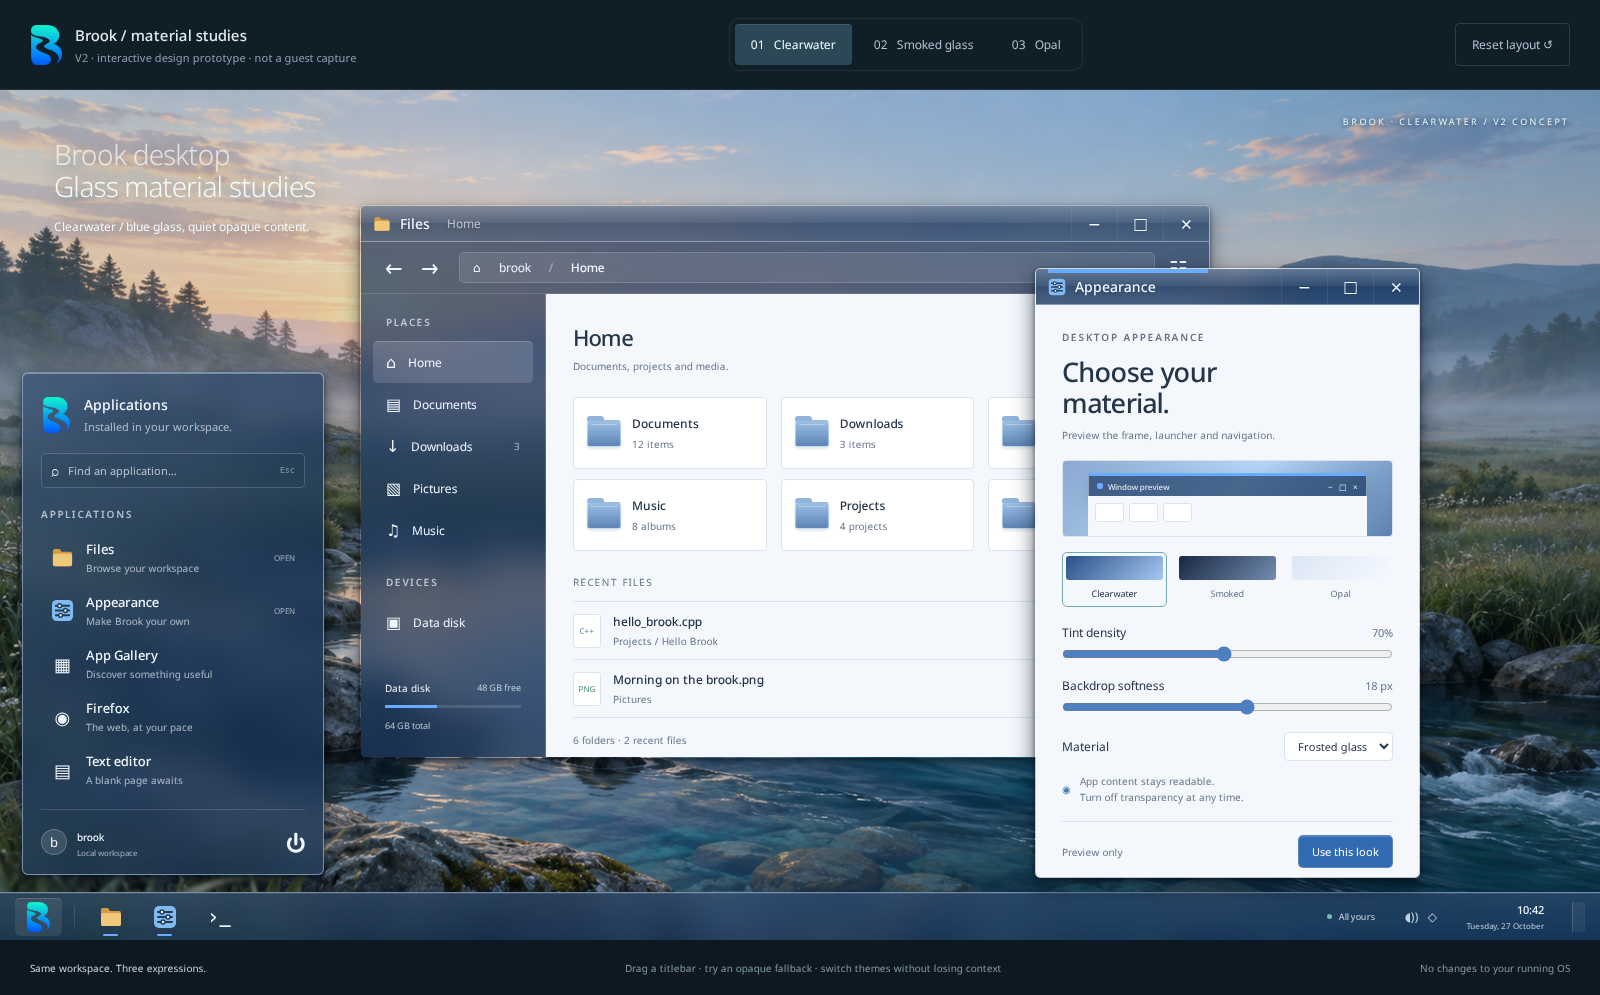
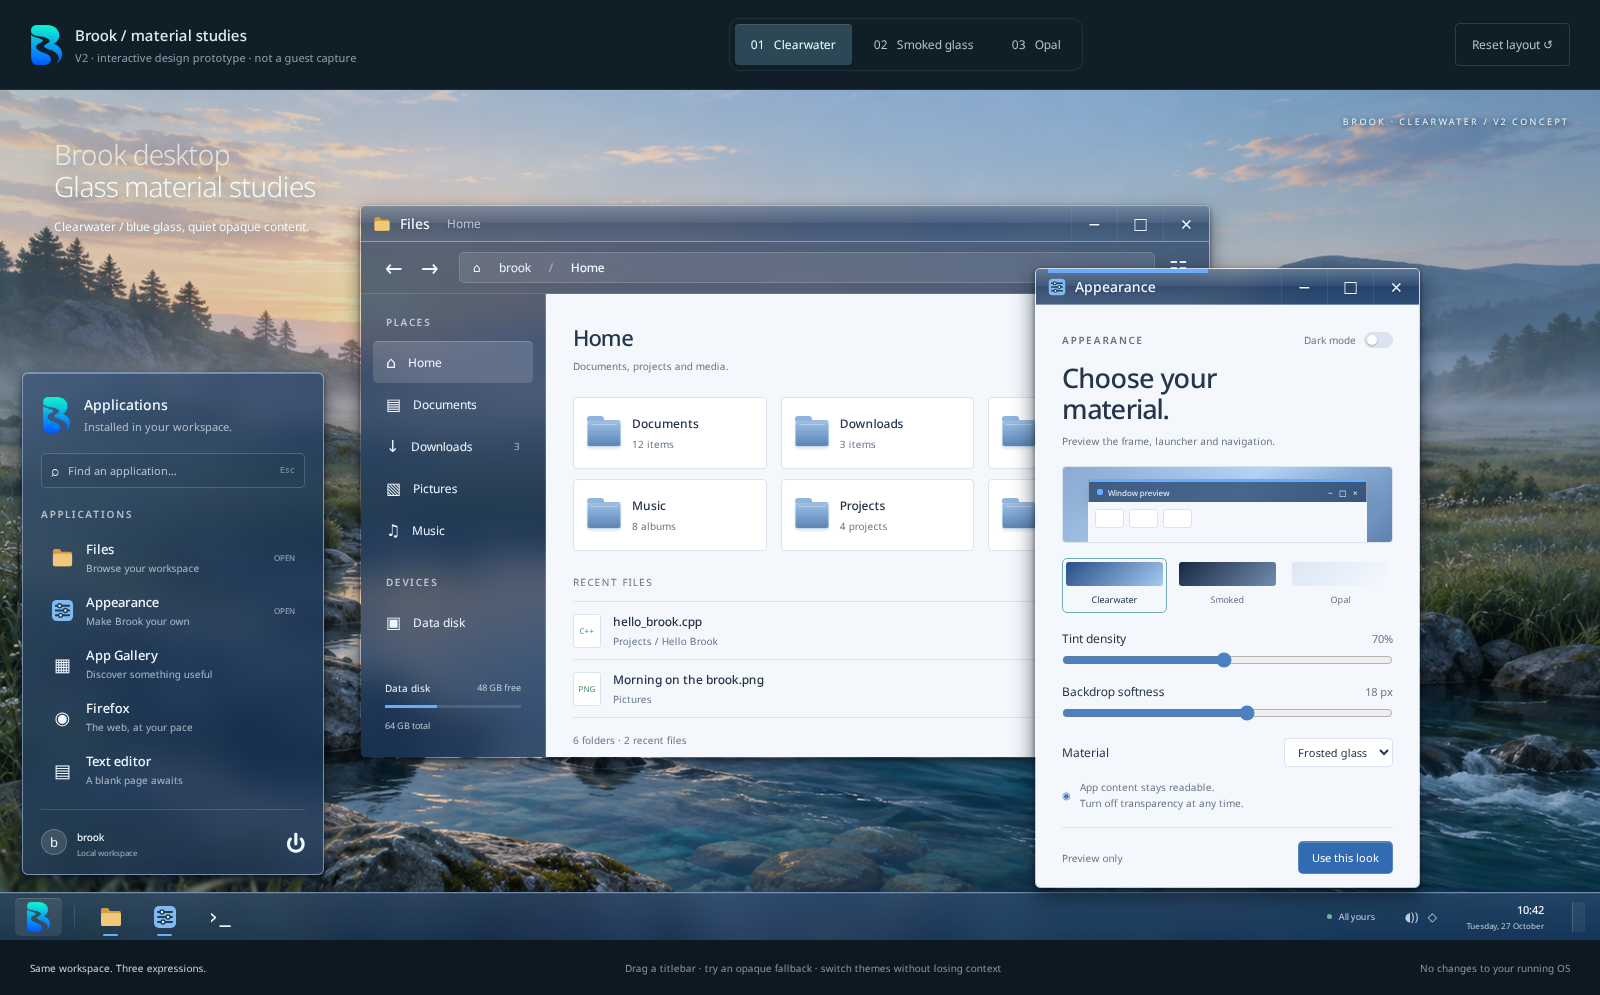
Add independent dark mode to Brook glass studies

diff --git a/docs/design/glass/study.js b/docs/design/glass/study.js
@@ -8,7 +8,9 @@ function setTheme(theme){if(!themes[theme])return;document.body.dataset.theme=th
 $$('[data-theme-choice]').forEach(b=>b.onclick=()=>setTheme(b.dataset.themeChoice));
 function material(){document.body.dataset.material=$('#material').value;document.body.style.setProperty('--tint',Number($('#tint').value)/100);document.body.style.setProperty('--blur',$('#blur').value+'px');$('#tint-value').textContent=$('#tint').value+'%';$('#blur-value').textContent=$('#blur').value+' px';$('#apply-status').textContent='Preview only';const solid=$('#material').value==='solid';$('#blur').disabled=solid||$('#material').value==='clear';$('#tint').disabled=solid}
 ['tint','blur','material'].forEach(id=>$('#'+id).addEventListener('input',material));
-$('#apply').onclick=()=>{try{localStorage.setItem('brook-glass-study',JSON.stringify({theme:document.body.dataset.theme,tint:$('#tint').value,blur:$('#blur').value,material:$('#material').value}));$('#apply-status').textContent='Saved in this browser';toast('Look saved for this prototype. Brook OS is unchanged.')}catch{toast('Browser storage is unavailable; preview remains active.')}};
+function colorMode(dark){document.body.dataset.colorMode=dark?'dark':'light';$('#dark-mode').checked=dark;$('#apply-status').textContent='Preview only'}
+$('#dark-mode').onchange=()=>colorMode($('#dark-mode').checked);
+$('#apply').onclick=()=>{try{localStorage.setItem('brook-glass-study',JSON.stringify({theme:document.body.dataset.theme,colorMode:document.body.dataset.colorMode,tint:$('#tint').value,blur:$('#blur').value,material:$('#material').value}));$('#apply-status').textContent='Saved in this browser';toast('Look saved for this prototype. Brook OS is unchanged.')}catch{toast('Browser storage is unavailable; preview remains active.')}};
 function focusWindow(w){$$('.window').forEach(x=>x.classList.remove('focused'));w.classList.add('focused');w.style.zIndex=++topZ}
 function openWindow(id){const w=$('#'+id);if(!w)return;w.classList.remove('closed','minimized');focusWindow(w);$(`[data-open="${id}"]`)?.classList.add('running')}
 $$('[data-open]').forEach(b=>b.onclick=()=>openWindow(b.dataset.open));
@@ -25,5 +27,5 @@ $('#app-search').addEventListener('input',appList);appList();
 const folders=[['Documents','12 items'],['Downloads','3 items'],['Pictures','24 items'],['Music','8 albums'],['Projects','4 projects'],['Videos','2 items']];let history=['Home'],historyIndex=0;
 function folder(name,record=true){if(record){history=history.slice(0,historyIndex+1);history.push(name);historyIndex++}$('#folder-name').textContent=name;$('#content-title').textContent=name==='Home'?'Home':name;$$('[data-folder]').forEach(b=>b.classList.toggle('selected',b.dataset.folder===name));const grid=$('#file-grid');grid.replaceChildren();for(const [title,count] of name==='Home'?folders:[['Brook notes','Example folder'],['Experiments','Example folder'],['Archive','Example folder']]){const b=document.createElement('button');b.className='file-card';const icon=document.createElement('span');icon.className='folder-icon';const d=document.createElement('div'),strong=document.createElement('strong'),small=document.createElement('small');strong.textContent=title;small.textContent=count;d.append(strong,small);b.append(icon,d);b.onclick=()=>folder(title);grid.append(b)}$('#file-status').textContent=name==='Home'?'6 folders · 2 recent files':'Illustrative files · design preview'}
 $$('[data-folder]').forEach(b=>b.onclick=()=>folder(b.dataset.folder));$('.files-toolbar button[aria-label=Back]').onclick=()=>{if(historyIndex>0)folder(history[--historyIndex],false)};$('.files-toolbar button[aria-label=Forward]').onclick=()=>{if(historyIndex<history.length-1)folder(history[++historyIndex],false)};$('.view-toggle').onclick=()=>{const g=$('#file-grid');g.style.gridTemplateColumns=g.style.gridTemplateColumns?'':'1fr';toast('File view changed in the prototype.')};$('.subtle').onclick=()=>toast('Files shown here are illustrative; no filesystem access.');folder('Home',false);
-try{const saved=JSON.parse(localStorage.getItem('brook-glass-study'));if(saved&&themes[saved.theme]){setTheme(saved.theme);for(const id of ['tint','blur','material'])if(saved[id]!==undefined)$('#'+id).value=saved[id];material();restored=true}}catch{}
+try{const saved=JSON.parse(localStorage.getItem('brook-glass-study'));if(saved&&themes[saved.theme]){setTheme(saved.theme);colorMode(saved.colorMode==='dark'||(!saved.colorMode&&saved.theme==='smoke'));for(const id of ['tint','blur','material'])if(saved[id]!==undefined)$('#'+id).value=saved[id];material();restored=true}}catch{}
 setTheme(document.body.dataset.theme);material();if(restored)$('#apply-status').textContent='Restored from this browser';focusWindow($('#settings'));

diff --git a/docs/design/glass/index.html b/docs/design/glass/index.html
@@ -2,7 +2,7 @@
 <html lang="en"><meta charset="utf-8"><meta name="viewport" content="width=device-width,initial-scale=1">
 <title>Brook · Glass material studies</title>
 <link rel="stylesheet" href="study.css">
-<body data-theme="water" data-material="frosted">
+<body data-theme="water" data-material="frosted" data-color-mode="light">
 <header class="study-controls"><div class="study-identity"><img src="../../../data/branding/brook-mark.png" alt=""><div><strong>Brook / material studies</strong><small>V2 · interactive design prototype · not a guest capture</small></div></div><nav aria-label="Theme concepts"><button data-theme-choice="water" class="chosen">01 &nbsp; Clearwater</button><button data-theme-choice="smoke">02 &nbsp; Smoked glass</button><button data-theme-choice="opal">03 &nbsp; Opal</button></nav><button id="reset">Reset layout ↺</button></header>
 <main id="desktop" aria-label="Brook desktop concept">
 <div class="desktop-label"><span>Brook desktop</span><br>Glass material studies<small id="direction-caption">Clearwater / blue glass, quiet opaque content.</small></div>
@@ -14,7 +14,7 @@
 </section>
 <section id="settings" class="window settings" aria-label="Appearance window">
  <header class="titlebar"><img src="../../../data/icons/settings.svg" alt=""><strong>Appearance</strong><div class="caption"><button data-action="minimize" aria-label="Minimize Appearance">−</button><button data-action="maximize" aria-label="Maximize Appearance">□</button><button data-action="close" class="close" aria-label="Close Appearance">×</button></div></header>
- <div class="settings-body"><div class="eyebrow">DESKTOP APPEARANCE</div><h2>Choose your<br>material.</h2><p>Preview the frame, launcher and navigation.</p>
+ <div class="settings-body"><div class="appearance-heading"><div class="eyebrow">APPEARANCE</div><label class="dark-mode-label" for="dark-mode">Dark mode <input id="dark-mode" type="checkbox" role="switch"></label></div><h2>Choose your<br>material.</h2><p>Preview the frame, launcher and navigation.</p>
  <div class="material-preview"><div class="preview-window"><i></i><span>Window preview</span><b>− &nbsp; □ &nbsp; ×</b></div><div class="preview-content"><i></i><i></i><i></i></div></div>
  <div class="theme-swatches" aria-label="Choose appearance"><button data-theme-choice="water" class="swatch water chosen" aria-label="Clearwater"><span></span>Clearwater</button><button data-theme-choice="smoke" class="swatch smoke" aria-label="Smoked glass"><span></span>Smoked</button><button data-theme-choice="opal" class="swatch opal" aria-label="Opal"><span></span>Opal</button></div>
  <label class="range-label" for="tint">Tint density <output id="tint-value">70%</output></label><input type="range" id="tint" min="45" max="96" value="70">

diff --git a/docs/design/glass/study.css b/docs/design/glass/study.css
@@ -23,7 +23,7 @@ nav button.chosen{color:#eefeff;background:#2c4856;box-shadow:inset 0 1px #fffff
 .window{position:absolute;border-radius:5px;border:1px solid transparent;box-shadow:0 8px 18px #07152688,0 2px 4px #00000066;overflow:hidden;min-width:500px;min-height:380px}
 .window.focused{border-color:var(--window-edge);box-shadow:0 10px 22px #071526a6,0 2px 5px #00000080,inset 0 1px #ffffff70}
 .files{left:360px;top:115px;width:850px;height:553px}
-.settings{left:1035px;top:178px;width:385px;min-width:350px;height:610px;min-height:500px}
+.settings{left:1035px;top:178px;width:385px;min-width:350px;height:620px;min-height:500px}
 .titlebar{height:36px;display:flex;align-items:center;padding-left:12px;gap:9px;position:relative;border-bottom:1px solid #ffffff2b;user-select:none;touch-action:none;background-image:linear-gradient(180deg,#ffffff40,#ffffff0a 48%,#0000000a 50%,#ffffff08);text-shadow:0 1px 3px #001d3155}
 .titlebar:after{content:'';display:none;position:absolute;top:0;left:12px;width:160px;height:4px;background:var(--accent)}
 .window.focused .titlebar:after{display:block}
@@ -214,3 +214,13 @@ nav button{padding:9px 12px}
 .eyebrow{font-size:10px}
 .section-label{font-size:10px}
 .content-status{font-size:10px}
+
+/* Color mode is independent of glass palette and focus accent. */
+.appearance-heading{display:flex;align-items:center;justify-content:space-between;min-height:20px;gap:12px}
+.dark-mode-label{display:flex;align-items:center;gap:8px;font-size:10px;white-space:nowrap;color:var(--muted)}
+#dark-mode{appearance:none;width:29px;height:16px;border:1px solid var(--line);border-radius:9px;background:var(--line);margin:0;cursor:pointer;position:relative}
+#dark-mode:before{content:'';position:absolute;width:10px;height:10px;left:2px;top:2px;background:var(--raised);border-radius:50%;box-shadow:0 1px 2px #0004}
+#dark-mode:checked{background:#4c80c0;border-color:#4c80c0}
+#dark-mode:checked:before{left:15px;background:#fff}
+body[data-color-mode=light][data-theme=smoke]{--content:#f1f4f9;--ink:#28384e;--muted:#687b94;--line:#d5deeb;--raised:#fff;--selection:#dbe7f7}
+body[data-color-mode=dark]{color-scheme:dark;--content:#172335;--ink:#e5edf8;--muted:#a4b2c7;--line:#32445d;--raised:#213149;--selection:#2c496d}

diff --git a/docs/design/glass/serve.py b/docs/design/glass/serve.py
@@ -10,7 +10,7 @@ STUDY = Path(__file__).resolve().parent
 ROOT = STUDY.parents[2]
 FILES = {f'/{name}': STUDY / name for name in
          ('index.html', 'study.css', 'study.js', 'clearwater.png', 'smoked.png', 'opal.png',
-          'clearwater-v2.png', 'smoked-v2.png', 'opal-v2.png')}
+          'clearwater-v2.png', 'smoked-v2.png', 'opal-v2.png', 'clearwater-dark.png')}
 FILES['/'] = STUDY / 'index.html'
 for asset in ('data/branding/brook-mark.png', 'data/wallpaper/brook-dawn.png',
               'data/icons/files.svg', 'data/icons/settings.svg'):

diff --git a/docs/design/glass/README.md b/docs/design/glass/README.md
@@ -9,7 +9,8 @@ Run `python3 docs/design/glass/serve.py` from the repository, then open
 public assets. Opening `index.html` directly also works. No third-party network
 requests, build step or package installation are needed for the prototype.
 
-Switch the three themes, adjust tint/blur, compare solid fallback, search the
+Switch the three glass palettes and independent light/dark color mode, adjust
+tint/blur, compare solid fallback, search the
 launcher, drag titlebars, minimize/maximize/close and restore from the taskbar.
 “Use this look” stores only the prototype's appearance in browser local storage.
 Files and app listings are illustrative. The prototype never controls the VM or
@@ -29,6 +30,20 @@ than the previous 22-pixel offset / 65-pixel blur. The Settings miniature echoes
 
 The [v1 Clearwater](clearwater.png), [v1 Smoked](smoked.png) and
 [v1 Opal](opal.png) captures are retained for comparison.
+
+## Independent dark mode
+
+The Appearance switch changes app surfaces and text without changing the glass
+palette or its blue focus accent. All three palettes support both light and dark
+content; the selection persists with the other browser-only appearance settings.
+Old saved Smoked preferences migrate to dark mode, preserving their earlier look.
+The switch supports keyboard activation and exposes its state to accessibility.
+
+This Clearwater dark capture uses 80% tint and 16 px softness to match the review
+reference. Defaults remain 70% and 18 px. The 36-pixel titlebar, active-only accent
+and outline, 5-pixel corners and tighter shadow are shared with the light variant.
+
+![Clearwater dark mode](clearwater-dark.png)
 
 ## Three directions
 
@@ -173,7 +188,8 @@ launch, drag, minimize/restore, maximize/restore, close/reopen, browser-only
 persistence and a compact-width overflow check. V2 additionally checks the
 active-only stroke/outline, exact stroke and corner dimensions, and transfer
 between both windows through pointer activation and keyboard focus in all
-three themes. Captures are 1600×995 at device
+three themes. Six palette/mode combinations additionally verify surface tokens
+and unchanged accents; browser reload verifies dark mode persistence. Captures are 1600×995 at device
 scale 1. No page errors or failed asset loads were observed. The images were
 visually checked after theme transitions settled. Main and the VM are unchanged.
 
